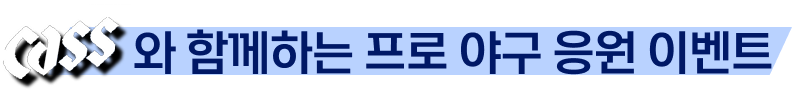
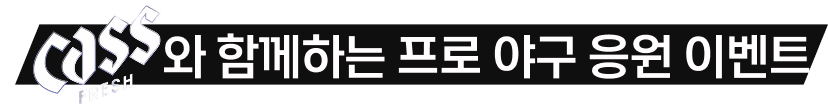
design: 이미지 수정

diff --git a/apps/event/src/app/result/components/LoseComponent.tsx b/apps/event/src/app/result/components/LoseComponent.tsx
@@ -33,7 +33,11 @@ export default function LoseComponent({
           width={251}
           height={139}
           priority={true}
-          style={{ mixBlendMode: "hard-light" }}
+          style={{
+            mixBlendMode: "hard-light",
+            width: "auto",
+            height: "auto",
+          }}
           className="max-w-full max-h-full object-contain"
         />
       </div>
@@ -49,7 +53,12 @@ export default function LoseComponent({
           width={296}
           height={58}
           priority={true}
-          style={{ objectFit: "contain", objectPosition: "left top" }}
+          style={{
+            objectFit: "contain",
+            objectPosition: "left top",
+            width: "auto",
+            height: "auto",
+          }}
         />
       </div>
 
@@ -103,16 +112,17 @@ export default function LoseComponent({
           <div className="relative w-full h-full overflow-visible">
             {/* 버튼 배경 */}
             <button className="w-full h-full text-center bg-white text-gray-900 rounded-2xl font-pretendard font-semibold overflow-visible">
-              <div className="absolute right-4 top-0 bottom-0 h-[58px] flex justify-center items-center font-pretendard font-semibold text-[18px]">이벤트 더보기
+              <div className="absolute right-4 top-0 bottom-0 h-[58px] flex justify-center items-center font-pretendard font-semibold text-[18px]">
+                이벤트 더보기
                 <div className="ml-1">
-                <Image
-              src="/assets/result/chevron-right.svg"
-              alt="프레임"
-              width={24}
-              height={24}
-              priority={true}
-              className="object-contain"
-            />
+                  <Image
+                    src="/assets/result/chevron-right.svg"
+                    alt="프레임"
+                    width={24}
+                    height={24}
+                    priority={true}
+                    className="object-contain"
+                  />
                 </div>
               </div>
             </button>

diff --git a/apps/event/src/app/page.tsx b/apps/event/src/app/page.tsx
@@ -13,7 +13,17 @@ export default function CheerEvent() {
     <div className="max-w-sm mx-auto min-h-screen flex flex-col text-white">
       {/* Header */}
       <div className="text-center px-6 mt-16">
-        <div className="text-lg font-bold mb-2">프로 야구 응원 이벤트</div>
+      <div className="relative justify-center mx-auto mb-4">
+            <Image
+              src="/assets/Frame 5408.png"
+              alt="프레임"
+              width={276}
+              height={30}
+              priority={true}
+              className="object-contain"
+              style={{ width: "auto", height: "auto" }}
+            />
+          </div>
         <h1 className="font-kbo text-4xl font-bold mb-4">응원지수를 높여라</h1>
         <p className="font-pretendard text-[16px] leading-relaxed text-white/80">
           뜨거운 응원으로{" "}
@@ -26,7 +36,7 @@ export default function CheerEvent() {
       {/* Rewards Section */}
       <div className="bg-white/10 flex flex-col items-center justify-center w-fit p-10 my-5 mx-auto space-y-10 rounded-md">
         <div className="relative justify-center mb-4">
-          <div className="relative justify-center mx-auto mb-4">
+          <div className="relative justify-center mb-4">
             <Image
               src="/assets/Frame 5403.png"
               alt="프레임"
@@ -34,6 +44,7 @@ export default function CheerEvent() {
               height={90}
               priority={true}
               className="object-contain"
+              style={{ width: "auto", height: "auto" }}
             />
           </div>
         </div>

diff --git a/apps/event/src/app/result/components/WinComponent.tsx b/apps/event/src/app/result/components/WinComponent.tsx
@@ -17,7 +17,7 @@ export default function WinComponent({
     sessionStorage.setItem("winner_verified", "true");
   };
 
-  console.log(teamid)
+  console.log(teamid);
 
   return (
     <div className="max-w-screen min-h-screen flex flex-col text-white bg-gradient-to-b from-[#0061C3] to-[#0036A2] pb-24">
@@ -38,7 +38,7 @@ export default function WinComponent({
           width={251}
           height={139}
           priority={true}
-          style={{ mixBlendMode: "hard-light" }}
+          style={{ mixBlendMode: "hard-light", width: "auto", height: "auto" }}
           className="max-w-full max-h-full object-contain"
         />
       </div>
@@ -54,7 +54,12 @@ export default function WinComponent({
           width={296}
           height={58}
           priority={true}
-          style={{ objectFit: "contain", objectPosition: "left top" }}
+          style={{
+            objectFit: "contain",
+            objectPosition: "left top",
+            width: "auto",
+            height: "auto",
+          }}
         />
       </div>
 

diff --git a/apps/display/src/app/page.tsx b/apps/display/src/app/page.tsx
@@ -138,7 +138,7 @@ export default function Display() {
       <div className="relative z-10 px-4 min-h-screen flex flex-col justify-center items-center">
         <div className="relative w-[429px] h-[48px] xl:w-[715px] xl:h-[80px] mx-auto mb-4">
           <Image
-            src="/assets/Frame 5408.svg"
+            src="/assets/Frame 5408.png"
             alt="프레임"
             fill
             priority={true}

diff --git a/apps/display/src/app/count/page.tsx b/apps/display/src/app/count/page.tsx
@@ -142,7 +142,7 @@ export default function Display() {
       <div className="flex flex-row justify-between pb-[114px]">
         <div className="relative w-[357px] h-[40px] xl:w-[715px] xl:h-[80px]">
           <Image
-            src="/assets/Frame 5408_count.svg"
+            src="/assets/Frame 5408.png"
             alt="프레임"
             fill
             priority={true}
